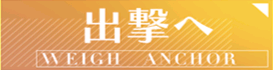
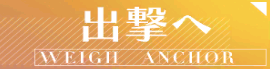
JP assets, updated swipes, experimental ascreencap
JP Assets
- JP research assets only lack 30m research, otherwise ready to push
- bumping button_go.png similarity to 0.99 by retaking it

Updated default swipes and 7-2
- updated default swipe and 7-2 swipe **C12 and C13 is unobtainable for me**

Experimental AScreenCap **Not Ready**
- utils.py added experimental ascreencap, only toggleable by modifying the flag manually
- binaries are not provided
- conditional import for lz4.block to not cause missing dependancies
- additional checks for ascreencap headers, exception is thrown if the header verification fails
- perf counter for aScreenCap **(to be removed)**
- note that the compressed raw data block might be corrupted with warnings from aScreenCap binary. In this case, it will throw lz4.block.LZ4BlockError and the script should auto exit anyways. A way to sanitize the data block might be possible

diff --git a/util/utils.py b/util/utils.py
@@ -46,6 +46,13 @@ class Region(object):
 screen = None
 last_ocr = ''
 
+# EXPERIMENTAL ASCREENCAP FLAG
+useAScreenCap = False
+
+# CONDITIONAL IMPORT
+if useAScreenCap:
+    import lz4.block
+
 class Utils(object):
 
     small_boss_icon = False
@@ -99,8 +106,20 @@ class Utils(object):
         while screen is None:
             if Adb.legacy:
                 screen = cv2.imdecode(numpy.fromstring(Adb.exec_out(r"screencap -p | sed s/\r\n/\n/"),dtype=numpy.uint8),0)
-            else:
+            elif not useAScreenCap:
                 screen = cv2.imdecode(numpy.fromstring(Adb.exec_out('screencap -p'), dtype=numpy.uint8), 0)
+            else:
+                start_time = time.perf_counter()
+                raw_compressed_data = Adb.exec_out('/data/local/tmp/ascreencap --pack 2 --stdout')
+                compressed_data_header = numpy.frombuffer(raw_compressed_data[0:20], dtype=numpy.uint32)
+                if compressed_data_header[0] != 828001602:
+                    compressed_data_header = compressed_data_header.byteswap()
+                    if compressed_data_header[0] != 828001602:
+                        raise Exception('aScreenCap header verification failure, corrupted image received')
+                uncompressed_data_size = compressed_data_header[1].item()
+                screen = cv2.imdecode(numpy.frombuffer(lz4.block.decompress(raw_compressed_data[20:], uncompressed_size=uncompressed_data_size), dtype=numpy.uint8), 0)
+                elapsed_time = time.perf_counter() - start_time
+                Logger.log_debug("aScreenCap took {} ms to complete.".format('%.2f'%(elapsed_time * 1000)))
 
     @classmethod
     def wait_update_screen(cls, time=None):

diff --git a/modules/combat.py b/modules/combat.py
@@ -560,7 +560,7 @@ class CombatModule(object):
             'E-C2': lambda: Utils.swipe(960, 540, 960, 580, 300),
             'E-C3': lambda: Utils.swipe(960, 540, 960, 500, 300),
             'E-D3': lambda: Utils.swipe(1040, 640, 960, 440, 300),
-            '7-2': lambda: Utils.swipe(960, 540, 1300, 600, 300),
+            '7-2': lambda: Utils.swipe(960, 540, 400, 600, 300),
             '12-2': lambda: Utils.swipe(1000, 570, 1300, 540, 300),
             '12-3': lambda: Utils.swipe(1250, 530, 1300, 540, 300),
             '12-4': lambda: Utils.swipe(960, 300, 960, 540, 300),
@@ -569,7 +569,7 @@ class CombatModule(object):
             '13-3': lambda: Utils.swipe(1150, 510, 1300, 540, 300),
             '13-4': lambda: Utils.swipe(1200, 450, 1300, 540, 300)
         }
-        swipes.get(self.chapter_map, lambda: Utils.swipe(960, 540, 1300, 540, 300))()
+        swipes.get(self.chapter_map, lambda: Utils.swipe(960, 540, 450, 540, 300))()
 
         # disable subs' hunting range
         if self.config.combat["hide_subs_hunting_range"]:
